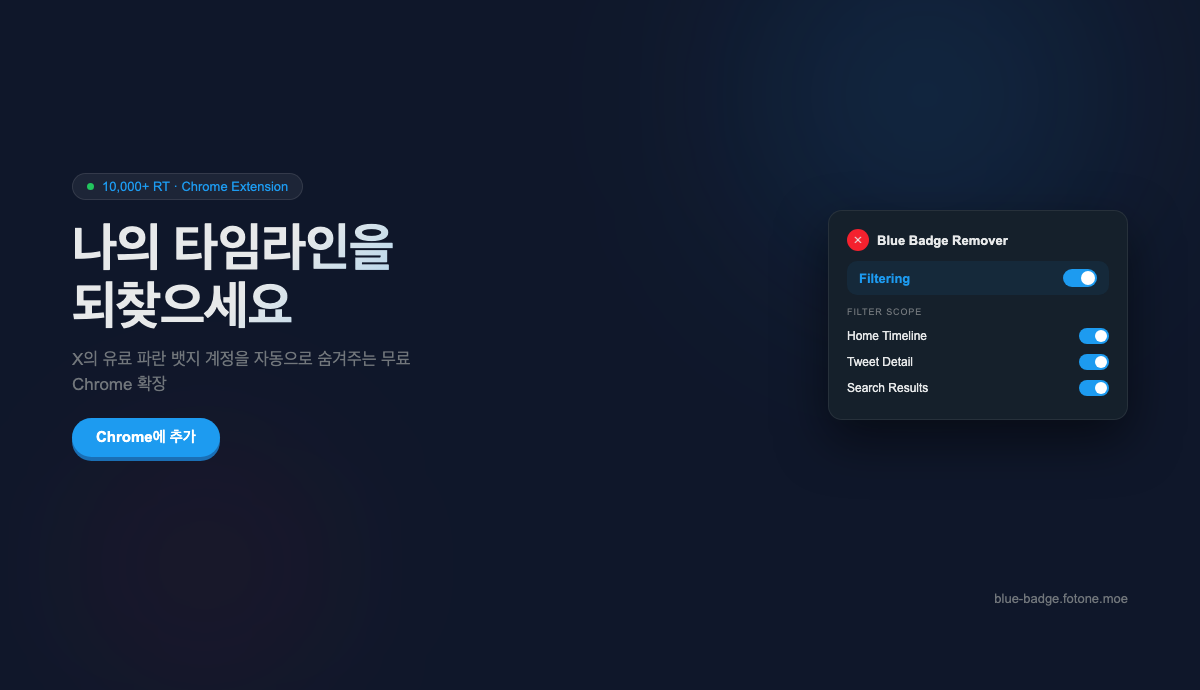
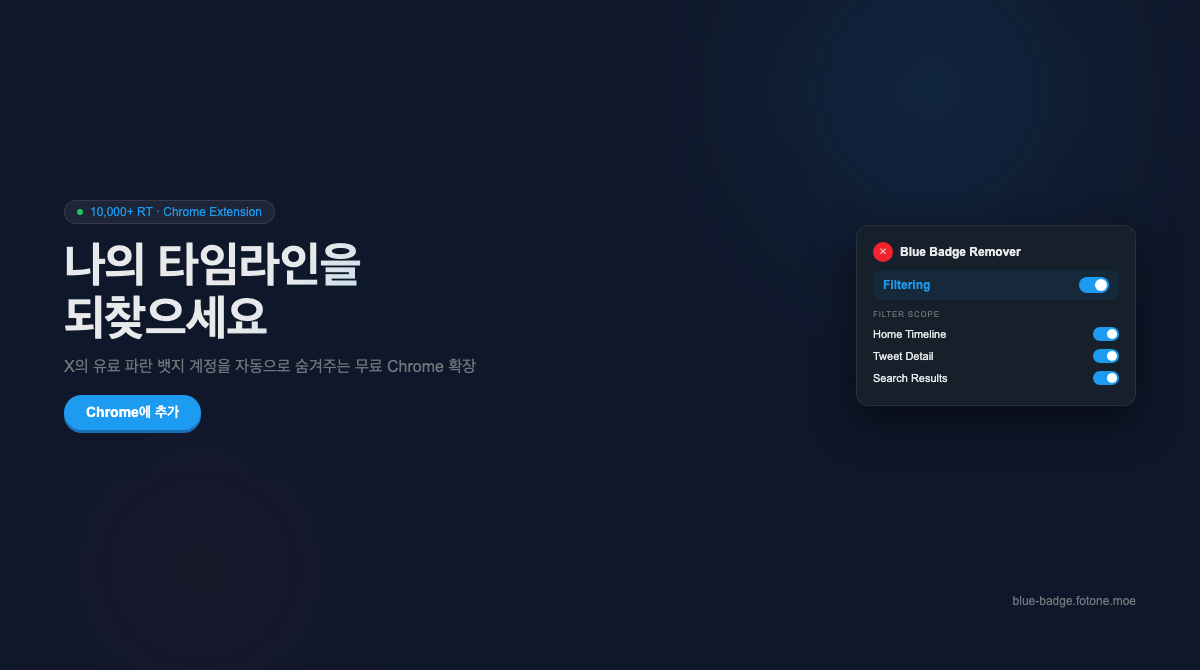
fix: tighter OG image (gap 32px) + rewrite README for project
- OG image: reduced gap from 48px to 32px, smaller elements
- README: replace boilerplate with actual project description,
  links to Chrome Web Store and extension repo

diff --git a/README.md b/README.md
@@ -1,68 +1,32 @@
-# agent-harness-boilerplate
+# Blue Badge Remover Landing
 
-AI 에이전트와 협업하기 위한 프로젝트 하네스 보일러플레이트. 새 프로젝트를 시작할 때 이 레포를 복제하고 `/init-project` 스킬로 초기화한다.
+[blue-badge.fotone.moe](https://blue-badge.fotone.moe)
 
-## 빠른 시작
+X(Twitter)에서 유료 파란 뱃지 계정의 트윗을 자동으로 숨기는 Chrome 확장 프로그램 **Blue Badge Remover**의 랜딩 페이지.
+
+## 관련 링크
+
+- [Chrome Web Store](https://chromewebstore.google.com/detail/Blue%20Badge%20Remover/cjhmbgfnddpcdfmoicfcocekmainhhdm)
+- [확장 프로그램 소스코드](https://github.com/fotoner/blue-badge-remover)
+
+## 기술 스택
+
+- React 19 + TypeScript
+- Tailwind CSS 4
+- TanStack Router (파일 기반)
+- Vite
+- Vitest + React Testing Library
+- GitHub Pages
+
+## 개발
 
 ```bash
-# 1. 레포 복제
-cp -r ~/dev/agent-harness-boilerplate ~/dev/my-new-project
-cd ~/dev/my-new-project
-rm -rf .git && git init
-
-# 2. Claude Code에서 초기화
-/init-project
-# 또는
-/init-project "path/to/project-plan.md"
+npm install
+npm run dev      # http://localhost:5173
+npm test         # vitest
+npm run build    # 프로덕션 빌드
 ```
 
-## 구조
+## 라이선스
 
-```
-CLAUDE.md                          # 에이전트 진입점
-.claude/skills/
-├── manage-cycle/SKILL.md          # 스프린트/이슈 관리 (/manage-cycle)
-└── init-project/SKILL.md          # 하네스 초기화 (/init-project)
-docs/
-├── ARCHITECTURE.md                # 아키텍처 (리서치 후 결정)
-├── REQUIREMENTS.md                # EARS 요구사항
-├── QUALITY_RULES.md               # TDD, 코딩 규칙
-├── CONVENTIONS.md                 # 브랜치/커밋 컨벤션
-├── CODE_REVIEW.md                 # 코드 리뷰 규칙
-├── RELIABILITY.md                 # 에러 처리 정책
-├── SECURITY.md                    # 보안 정책
-├── cycle/                         # 스프린트/이슈 관리
-│   ├── backlog.md
-│   ├── current-sprint.md
-│   └── sprints/
-└── superpowers/
-    ├── specs/                     # 디자인 문서
-    └── plans/                     # 구현 계획서
-```
-
-## 하네스 문서
-
-| 문서 | 불변/가변 | 설명 |
-|------|----------|------|
-| QUALITY_RULES.md | 불변 | TDD, progressive harness, 코딩/테스트 규칙 |
-| CONVENTIONS.md | 대부분 불변 | 브랜치 전략, 커밋 형식, EARS 패턴 |
-| CODE_REVIEW.md | 대부분 불변 | 리뷰 필수 원칙, 심각도 분류 |
-| ARCHITECTURE.md | 대부분 가변 | 아키텍처 패턴 (init-project이 리서치 후 결정) |
-| REQUIREMENTS.md | 반반 | EARS 참조(불변) + 도메인 분해(가변) |
-| RELIABILITY.md | 반반 | 공통 정책(불변) + 프로젝트 특화(가변) |
-| SECURITY.md | 반반 | 공통 원칙(불변) + 환경 변수(가변) |
-
-## 스킬
-
-### /init-project
-프로젝트 플랜을 받아서 `{{PLACEHOLDER}}`를 자동 치환. 대화형 또는 파일 기반.
-
-### /manage-cycle
-`docs/cycle/` 마크다운 파일 기반 스프린트 관리. 8개 커맨드: create-issue, create-sprint, status, update, backlog, plan-sprint, retrospective, next-sprint.
-
-## 원칙
-
-- **TDD 필수**: 실패하는 테스트 → 최소 구현 → 리팩토링
-- **점진적 하네스**: 실수 2회 반복 → 규칙 추가. 문서로 안 되면 린터로 승격
-- **squash merge**: main은 깔끔한 커밋 히스토리. feature 브랜치에서 작업
-- **코드 리뷰 필수**: merge 전 `requesting-code-review` 스킬 사용
+MIT
